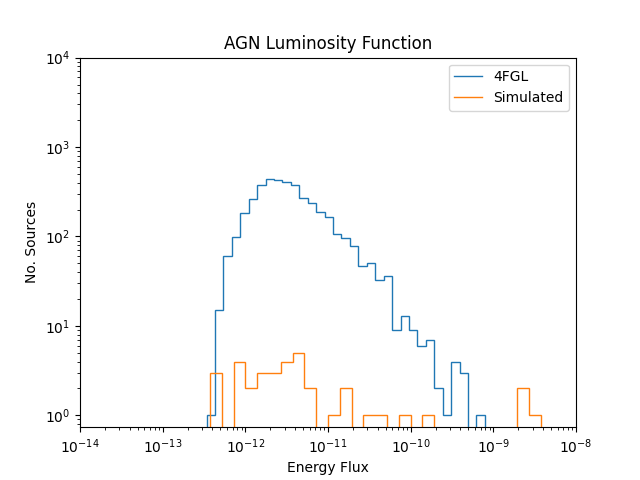
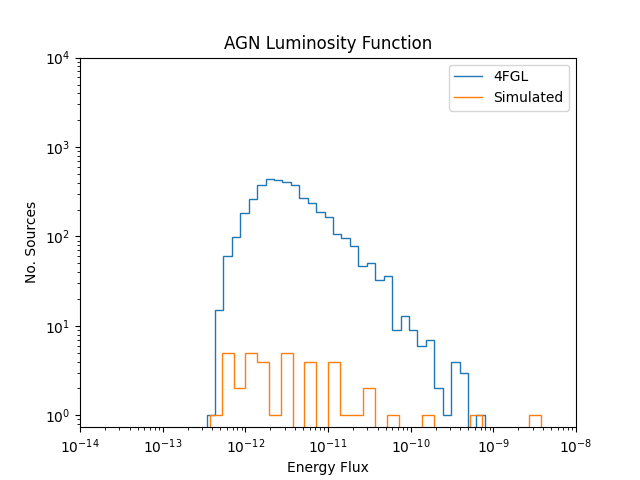
Moved equations for calculating AGN spectral slopes and flux densities into separate physical parameters file.

Changed region(s): [[0.3125, 0.7188, 0.6562, 0.9062], [0.7812, 0.7812, 0.8438, 0.875], [0.7188, 0.8438, 0.75, 0.875]]

diff --git a/data_simulation/create_mock_catalog.py b/data_simulation/create_mock_catalog.py
@@ -31,25 +31,16 @@ from astropy.coordinates import SkyCoord
 import matplotlib.pyplot as plt
 from pathlib import Path
 import warnings
-import time
 from scipy.optimize import curve_fit
-from sklearn.mixture import GaussianMixture
-from scipy.stats import rv_continuous
 from scipy import stats
-from scipy.stats.sampling import (NumericalInversePolynomial, NumericalInverseHermite, RatioUniforms,
-                                  SimpleRatioUniforms, TransformedDensityRejection)
-from sympy.stats import ContinuousRV, MultivariateNormal, sample
-from sympy import Interval, oo, Symbol
-from scipy.integrate import trapezoid
 from sklearn.metrics import root_mean_squared_error
 
 # Relative imports
 from analysis.goodness_of_fit import chi_squared_test, kolmogorov_smirnov_test
 from analysis.visualisation import (agn_luminosity_function, correlation_matrices, plot_parameter_distributions,
                                     plot_parameter_relationships)
-from xml_writers import agn_xml_writer, pulsar_xml_writer
-from spectral_models import agn_spectral_model, pulsar_spectral_model
-
+from physical_properties.spectral_models import agn_spectral_model, pulsar_spectral_model
+from physical_properties.agn_parameters import agn_flux_density, agn_spectral_slope
 
 # VISUALISATIONS
 
@@ -300,62 +291,6 @@ def pulsar_statistics(pulsars):
     mean_log_pivot_energy, std_log_pivot_energy, pulsar_latitudes)
 
 
-def agn_flux_densities(pivot_energies, a=0.10975452653160912, b=-2.8553356136745753, c=-21.159501476671274,
-                       noise_std=0.9181233644485474):
-
-    # a: 0.10975452653160912
-    # b: -2.8553356136745753
-    # c: -21.159501476671274
-
-    # Default values for a, b, and c based on correlation analysis between pivot energies and flux densities. Found that
-    # relation between E_0 and F_0 could be simulated as logF = a * logE^2 + b * logE + c
-
-    log_pivot_energies = np.log(pivot_energies)
-
-    log_flux_densities = (a * (log_pivot_energies ** 2)) + (b * log_pivot_energies) + c
-
-    # Found standard deviation of the residuals of fit of 4FGL data and quadratic fitted to logE_0 and logF_0
-    # (noise_std), assuming mean = 0. Add this simulated noise to log of flux densities to increase realism.
-
-    # Add noise
-    if isinstance(log_pivot_energies, np.float64):
-        noise = np.random.normal(loc=0, scale=noise_std)
-    else:
-        noise = np.random.normal(loc=0, scale=noise_std, size=len(log_pivot_energies))
-
-    log_flux_densities += noise
-
-    flux_densities = np.e ** log_flux_densities
-
-    return flux_densities
-
-
-def agn_spectral_slopes(pivot_energies, m=-0.3454412867553224, c=2.369026429991104, noise_std=0.1005791425704956):
-
-    # Based on correlation analysis of pivot energies and flux densities and spectral slopes,
-    # created this method for generating spectral slopes based on pivot energies after fitting relation
-    # found in cited paper (see fitting_agn_pivot_energy_spectral_slope_relation() for more info)
-
-    log_pivot_energies = np.log(pivot_energies)
-
-    log_alphas = np.log((log_pivot_energies * m) + c)
-
-    # Found standard deviation of the residuals of fit of 4FGL data (noise_std), assuming mean = 0. Add this simulated
-    # noise to log of alphas to increase realism.
-
-    # Add noise
-    if isinstance(log_pivot_energies, np.float64):
-        noise = np.random.normal(loc=0, scale=noise_std)
-    else:
-        noise = np.random.normal(loc=0, scale=noise_std, size=len(log_pivot_energies))
-
-    log_alphas += noise
-
-    alphas = np.exp(log_alphas)
-
-    return alphas
-
-
 # GENERATE FIXED NUMBER OF AGNS WITHIN GIVEN ENERGY FLUX RANGE FOR FLAT EXTRAPOLATION AT LOWER ENERGY FLUXES
 def agn_generation(agn_stats, energy_flux_low, energy_flux_high):
 
@@ -375,13 +310,13 @@ def agn_generation(agn_stats, energy_flux_low, energy_flux_high):
 
         # FLUX DENSITIES AND PIVOT ENERGY ARE DEPENDENT - THEREFORE FITTED RELATIONSHIP AND CALCULATE
         # FLUX DENSITY AS SUCH (THEREFORE, CHANGED SO GENERATION IS RELATED to PIVOt ENERGY)
-        flux_density = agn_flux_densities(pivot_energy)
+        flux_density = agn_flux_density(pivot_energy)[0]
 
         # Generate new spectral slope (alpha)
         # spectral_slope = np.random.normal(loc=mean_alpha_agn, scale=std_alpha_agn, size=1)[0]
 
         # FLUX DENSITY, PIVOT ENERGY, AND SPECTRAL SLOPE ARE DEPENDENT
-        spectral_slope = agn_spectral_slopes(pivot_energy)
+        spectral_slope = agn_spectral_slope(pivot_energy)[0]
 
         # Generate new curvature by directly sampling 4FGL
         beta = np.random.choice(betas_agn, size=1, replace=True)[0]
@@ -422,12 +357,12 @@ def generate_mock_agn_catalog(agn_stats, num_agns=100, extra=3400):
 
     # FLUX DENSITIES AND PIVOT ENERGY ARE DEPENDENT - THEREFORE FITTED RELATIONSHIP AND CALCULATE
     # FLUX DENSITY AS SUCH (THEREFORE, CHANGED SO GENERATION IS RELATED to PIVOt ENERGY)
-    flux_densities = agn_flux_densities(pivot_energies)
+    flux_densities = agn_flux_density(pivot_energies)
 
     # Generate new spectral slopes (alphas)
     # spectral_slopes = np.random.normal(loc=mean_alpha_agn, scale=std_alpha_agn, size=num_agns)
 
-    spectral_slopes = agn_spectral_slopes(pivot_energies)
+    spectral_slopes = agn_spectral_slope(pivot_energies)
 
     # Generate new curvatures by directly sampling 4FGL
     betas = np.random.choice(betas_agn, size=num_agns, replace=True)
@@ -560,23 +495,6 @@ def split_normal(x, sigma_1, sigma_2):
     mask = np.abs(x - mu) < 10
 
     return np.where(mask, A * np.exp(upper / (2 * (sigma_1 ** 2))), A * np.exp(upper / 2 * (sigma_2 ** 2)))
-
-
-# def split_normal_fixed(x):
-#
-#     mu = 0
-#
-#     # CHECK A IS FROM FORMULA - some use the same A (CHECK IT IS THE SAME)
-#
-#     sigma_1 = 0.88
-#
-#     sigma_2 = 1.71
-#
-#     upper = -1 * ((x - mu) ** 2)
-#
-#     A = np.sqrt(2/np.pi) * 1/(sigma_1 + sigma_2)
-#
-#     return np.where(np.abs(x - mu) < 10, A * np.exp(upper / (2 * (sigma_1 ** 2))), A * np.exp(upper / 2 * (sigma_2 ** 2)))
 
 
 # GENERATE FIXED NUMBER OF AGNS WITHIN GIVEN ENERGY FLUX RANGE FOR FLAT EXTRAPOLATION AT LOWER ENERGY FLUXES

diff --git a/data_simulation/physical_properties/agn_parameters.py b/data_simulation/physical_properties/agn_parameters.py
@@ -1,0 +1,58 @@
+import numpy as np
+
+# polynomial with degree 2 relating pivot energies and flux densities (coefficients below are c, b, a) such that
+# ax^2 + bx + c = 0
+poly = np.polynomial.Polynomial([-21.159501476671274, -2.8553356136745753, 0.10975452653160912])
+
+
+def agn_flux_density(pivot_energies, noise_std=0.9181233644485474):
+
+    # Default values for a, b, and c based on correlation analysis between pivot energies and flux densities. Found that
+    # relation between E_0 and F_0 could be simulated as logF = a * logE^2 + b * logE + c
+
+    # a: 0.10975452653160912
+    # b: -2.8553356136745753
+    # c: -21.159501476671274
+
+    log_pivot_energies = np.log(pivot_energies)
+
+    log_flux_densities = poly(log_pivot_energies)
+
+    # Found standard deviation of the residuals of fit of 4FGL data and quadratic fitted to logE_0 and logF_0
+    # (noise_std), assuming mean = 0. Add this simulated noise to log of flux densities to increase realism.
+
+    # Calculate number of noise elements to generate and create noise
+    size = np.atleast_1d(log_flux_densities).shape
+    noise = np.random.normal(loc=0, scale=noise_std, size=size)
+
+    # Add noise
+    log_flux_densities += noise
+
+    flux_densities = np.exp(log_flux_densities)
+
+    return flux_densities
+
+
+def agn_spectral_slope(pivot_energies, m=-0.3454412867553224, c=2.369026429991104, noise_std=0.1005791425704956):
+
+    # Based on correlation analysis of pivot energies and flux densities and spectral slopes,
+    # created this method for generating spectral slopes based on pivot energies after fitting relation
+    # found in cited paper (see fitting_agn_pivot_energy_spectral_slope_relation() for more info)
+
+    log_pivot_energies = np.log(pivot_energies)
+
+    log_alphas = np.log((log_pivot_energies * m) + c)
+
+    # Found standard deviation of the residuals of fit of 4FGL data (noise_std), assuming mean = 0. Add this simulated
+    # noise to log of alphas to increase realism.
+
+    # Calculate number of noise elements to generate and create noise
+    size = np.atleast_1d(log_alphas).shape
+    noise = np.random.normal(loc=0, scale=noise_std, size=size)
+
+    # Add noise
+    log_alphas += noise
+
+    alphas = np.exp(log_alphas)
+
+    return alphas
